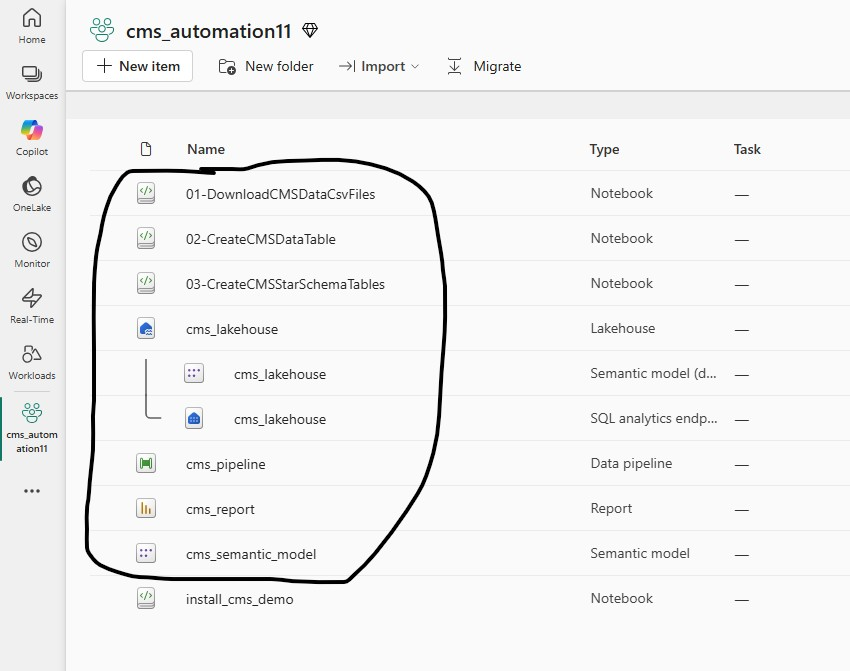
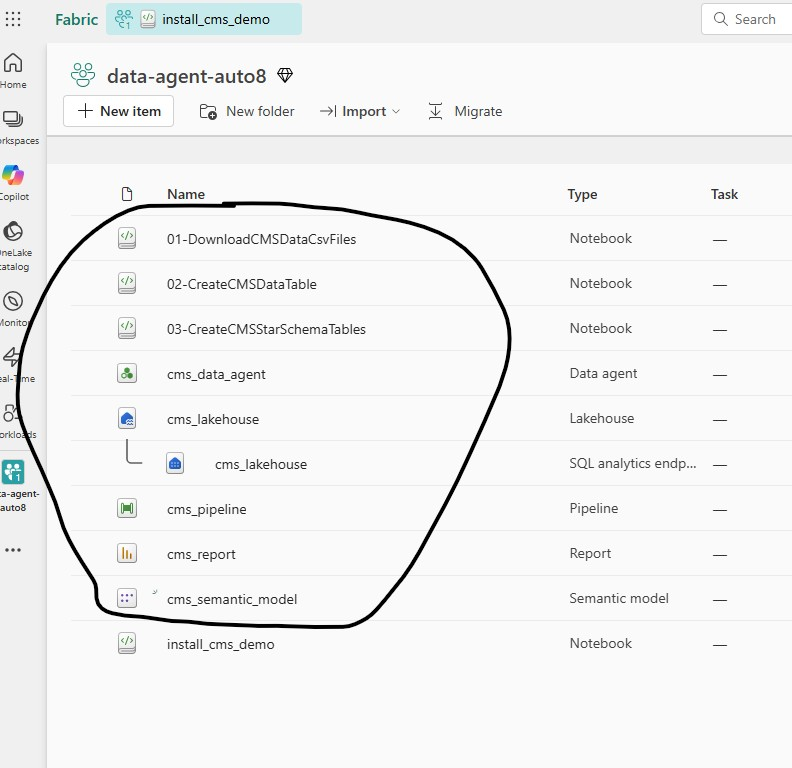
finalizing the updates

diff --git a/analytics-bi-directlake-starschema/quick-setup.md b/analytics-bi-directlake-starschema/quick-setup.md
@@ -16,9 +16,43 @@ For detailed instructions, follow the step-by-step guide below or watch this qui
 
 ## 🏗 Architecture
 
-![quickinstall](./Images/quickinstall.png)
+![quickinstall](./Images/quickinstall-dataagent.png)
 
-### *Pre-Requisite*: Fabric-enabled Workspace
+Here’s the updated section with your requested addition:
+
+***
+
+### **Prerequisites**
+
+*   **Fabric-enabled Workspace**
+*   [**Fabric Data Agent**](https://learn.microsoft.com/en-us/fabric/data-science/concept-data-agent) (Optional)    
+    *   The installation script attempts to create a Fabric Data Agent by default. If this step fails due to tenant settings, all other components will still install successfully. Any Data Agent creation errors can be safely ignored.
+    * If you prefer to skip the Data Agent creation step, open the installation notebook after importing it into your Fabric workspace and set the `invoke_data_agent_create_step` variable to `False` in the first code cell.
+    *   **Fabric Trial Capacity cannot be used for Fabric Data Agent**
+
+#### ⚙ **Fabric Data Agent Settings**
+
+To enable Data Agent functionality, configure the following settings before running the installation Notebook:
+
+1.  **Copilot and Azure OpenAI** *(Required)*
+    *   **Setting**: *“Users can use Copilot and other features powered by Azure OpenAI”*
+    *   **Scope**: Enable at **Tenant**, **Fabric Capacity**, or for specific users via **Entra Groups**
+
+2.  **Data Residency** *(Optional – only if Fabric Capacity is outside US/EU data boundary)*
+    *   **Settings**:
+        *   *“Data sent to Azure OpenAI can be processed outside your capacity's geographic region...”*
+        *   *“Data sent to Azure OpenAI can be stored outside your capacity's geographic region...”*
+    *   **Scope**: Enable at **Tenant**, **Capacity**, or for specific users via **Entra Groups**
+
+3.  **Data Agent Creation** *(Required)*
+    *   **Setting**: *“Users can create and share Data agent item types”*
+    *   **Scope**: Must be enabled at **Tenant level**; can be scoped to specific users via **Entra Groups**
+
+Relevant Documentation Links:
+* https://learn.microsoft.com/en-us/fabric/data-science/data-agent-tenant-settings
+* https://learn.microsoft.com/en-us/fabric/fundamentals/copilot-fabric-overview#available-regions
+
+
 
 ## Steps to setup demo in your own environment
 
@@ -44,14 +78,6 @@ For detailed instructions, follow the step-by-step guide below or watch this qui
 4. Monitor Pipeline Execution - Navigate to the **Fabric Data Factory pipeline**, then from Run menu click **“View Run History”** to see the execution history and click the Activity Name **cms_pipeline** to monitor the execution details. Alternatively you can use Fabric Monitor Hub to monitor the pipeline execution.
 
   ![Pipeline Run](./Images/monitor_pipeline_run.jpg)
-
-***
-
-## Create Fabric Data Agent and query from Azure AI Foundry Agent - Optional Step
-
-Next you you can go through steps to create a **Fabric Data Agent** that utilizes the Lakehouse Tables from the solution. The agent enables **natural language queries using text-to-SQL**, allowing users to interact with data conversationally. Also find instructions for querying the Fabric Data Agent from an **Azure AI Foundry Agent**. NOTE: This is a manul step which we expect to automate in future.
-
-[Faric Data Agent Creation Step](./docs/5-CreateAISkill.md) 
 
 ***
 

diff --git a/analytics-bi-directlake-starschema/Readme.md b/analytics-bi-directlake-starschema/Readme.md
@@ -21,7 +21,7 @@ The solution follows the **Medallion Architecture**:
 
 Additionally, it integrates the **Fabric Data Agent** enabling **Generative AI-powered natural language queries**.
 
-![analytics-bi-directlake](./Images/Logical_Diagram_Star_new.png)
+![analytics-bi-directlake](./Images/overall_arch.png)
 
 ---
 
@@ -49,12 +49,13 @@ Run a single notebook to set up the full environment with following components d
 - Data Factory Pipeline
 - Semantic Model
 - Power BI Report
+- Data Agent
 
 📘 **Setup Guide**: [`quick-setup.md`](./quick-setup.md)
 
 > ⏱ Requires less than 5 minutes to setup the installation Notebook, followed by approximately 20–45 minutes for a non-interactive Data Factory pipeline to load data. 
 
-> ⚠ Note: This method currently uses the Lakehouse for all layers (including Gold) and also Fabric Data Agent setup is **not yet automated** but planned for a future release.
+> ⚠ Note: This method currently uses the Lakehouse for all layers (including Gold).
 
 ---
 
